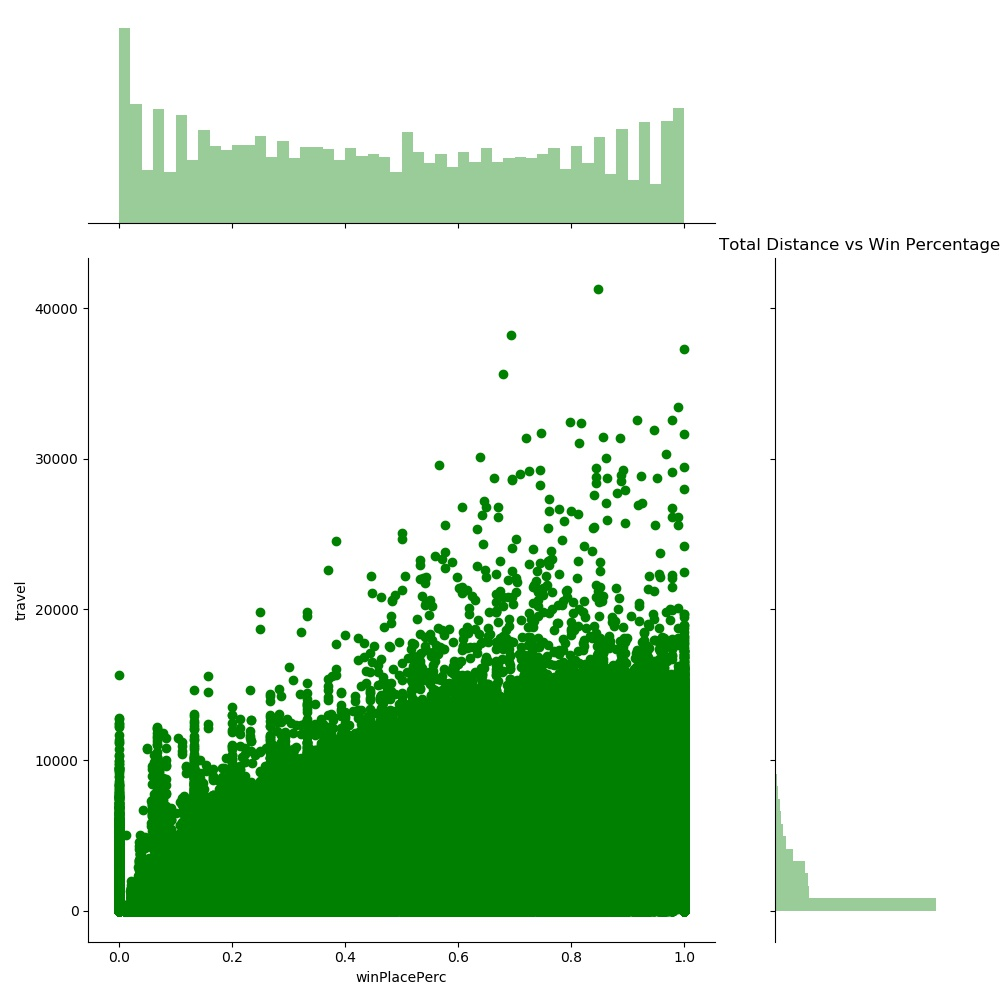
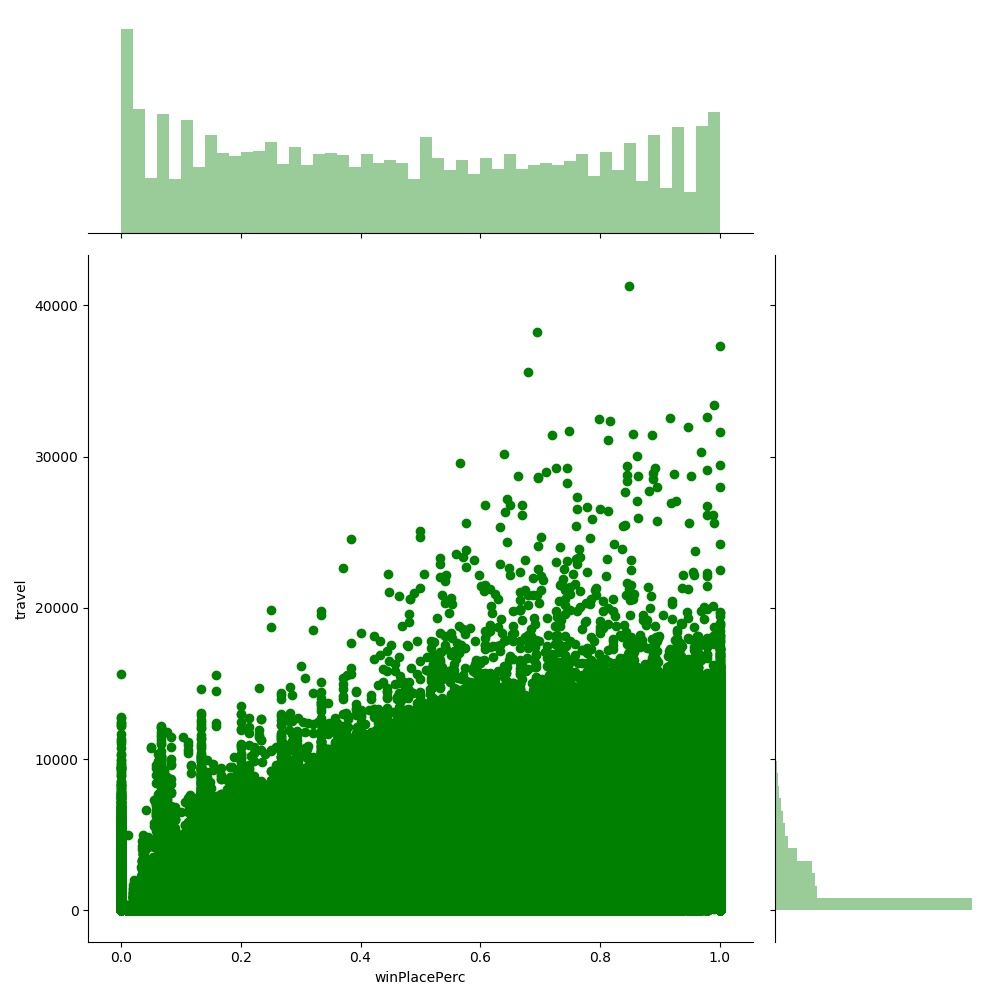
updated iamges w/o title

diff --git a/README.md b/README.md
@@ -82,7 +82,7 @@ Let's visualize the positve relation between walkDistance and winPlacePerc as we
 
 walkDistance vs winPlacePerc |  totalTravelDistance vs winPlacePerc
 :-------------------------:|:-------------------------:
-![](https://raw.githubusercontent.com/jpyneni3/PUBG-Placement-Prediction-Presentation/master/Images/walk_to_win.jpeg){:height="50%" width="50%"}  |  ![](https://raw.githubusercontent.com/jpyneni3/PUBG-Placement-Prediction-Presentation/master/Images/travel_to_win.jpeg){:height="50%" width="50%"}
+![](https://raw.githubusercontent.com/jpyneni3/PUBG-Placement-Prediction-Presentation/master/Images/walk_to_win.jpeg) |  ![](https://raw.githubusercontent.com/jpyneni3/PUBG-Placement-Prediction-Presentation/master/Images/travel_to_win.jpeg)
 
 
 The heatmap also shows a strong correlation between boosts and winPlacePerc. A graph of the central tendency of the two should help us get a better visual understanding of this relationship.
